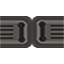
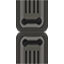
draw button and door

diff --git a/js/functions.js b/js/functions.js
@@ -175,14 +175,17 @@ function checkPixel(mapData, pixelOne, pixelTwo, pixelThree) {
 function loadImages() {
     doorImageV = new Image();
     openDoorImageV = new Image();
-    switchButtonImage = new Image();
-    switchButtonImage.src = "img/portalA.png";
-    doorImageV.src = "img/closedDoorImageV.png";
-    openDoorImageV = "img/openDoorV.png";
+    switchOffImage = new Image();
+    switchOnImage = new Image();
+    switchOffImage.src = "img/portalA.png";
+    switchOffImage.src = "img/portalB.png";
+    doorImageV.src = "img/closedDoorV.png";
+    openDoorImageV.src = "img/openDoorV.png";
 }
 
 function initButtonsAndDoors() {
-    switchButton = new Switch();
+    switchButton = new Switch(170, 450, switchOffImage, switchOnImage, door);
+    door = new Door(705, 260, doorImageV, openDoorImageV);
 }
 
 $(document).ready(function () {

diff --git a/js/Class/Triggers/Door.js b/js/Class/Triggers/Door.js
@@ -2,13 +2,15 @@ Trigger.prototype = Object.create(Trigger.prototype);
 function Door(x, y, imgOff, imgOn) {
     Trigger.call(this, x, y, imgOff, imgOn);
 
-    this.draw = function (src) {
+    this.draw = function () {
         if (this.triggered) {
+            this.src = imgOn;
             COLLISION_CTX.fillStyle = "white"
         } else {
+            this.src = imgOff;;
             COLLISION_CTX.fillStyle = "red"
         }
         COLLISION_CTX.fillRect(this.x, this.y, 64, 64);
-        INTERACTIVE_CTX.drawImage(src, this.x, this.y);
+        INTERACTIVE_CTX.drawImage(this.src, this.x, this.y);
     }
 }

diff --git a/js/loop.js b/js/loop.js
@@ -3,12 +3,14 @@ function loop() {
     //colisionsContext.clearRect(0,0,768,576);
     INTERACTIVE_CTX.clearRect(0, 0, 768, 576);
 
-    MAP_CTX.drawImage(imgMap, 0, 0,CANVAS_WIDTH,CANVAS_HEIGHT);
-    COLLISION_CTX.drawImage(imgMapCollisions, 0, 0,CANVAS_WIDTH,CANVAS_HEIGHT);
+    MAP_CTX.drawImage(imgMap, 0, 0, CANVAS_WIDTH, CANVAS_HEIGHT);
+    COLLISION_CTX.drawImage(imgMapCollisions, 0, 0, CANVAS_WIDTH, CANVAS_HEIGHT);
 
     Player.movementControl();
 
     Player.draw();
+    switchButton.draw();
+    door.draw();
 
     clearTimeout(timer);
     timer = setTimeout("loop()", 33);

diff --git a/index.html b/index.html
@@ -5,6 +5,9 @@
     <link rel="stylesheet" href="js/lib/style.css">
 
     <script src="js/Class/Player2.js"></script>
+    <script src="js/Class/Triggers/Trigger.js"></script>
+    <script src="js/Class/Triggers/Door.js"></script>
+    <script src="js/Class/Triggers/Switch.js"></script>
     <script src="js/GlobalConditions.js"></script>
     <script src="js/functions.js"></script>
     <script src="js/start.js"></script>

diff --git a/js/GlobalConditions.js b/js/GlobalConditions.js
@@ -14,12 +14,12 @@ var Player = new Player2();
 //Image
 var doorImageV = undefined;
 var openDoorImageV = undefined;
-var switchButtonImage = undefined;
+var switchOffImage = undefined;
+var switchOnImage = undefined;
 
 //Switch
 var switchButton = undefined;
-var openDoor = undefined;
-var closeDoor = undefined;
+var door = undefined;
 
 //Ponemos el tamaño a los canvas
 
